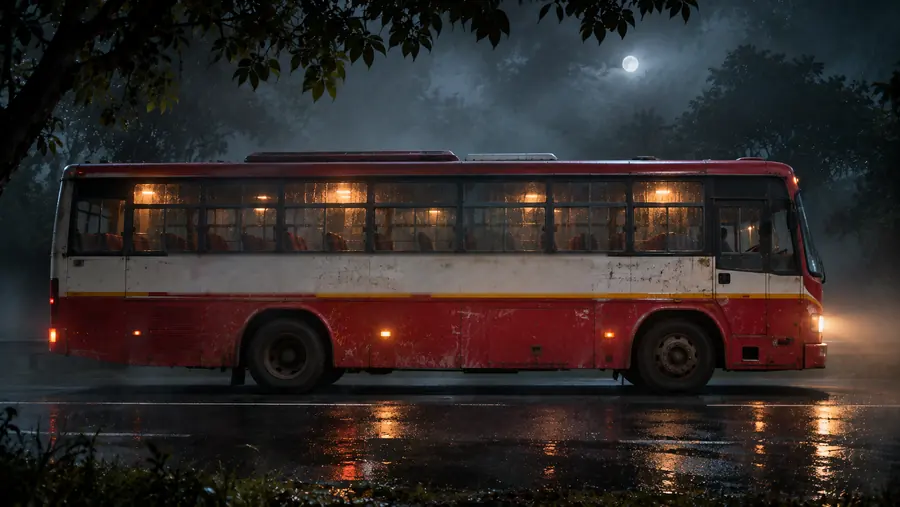
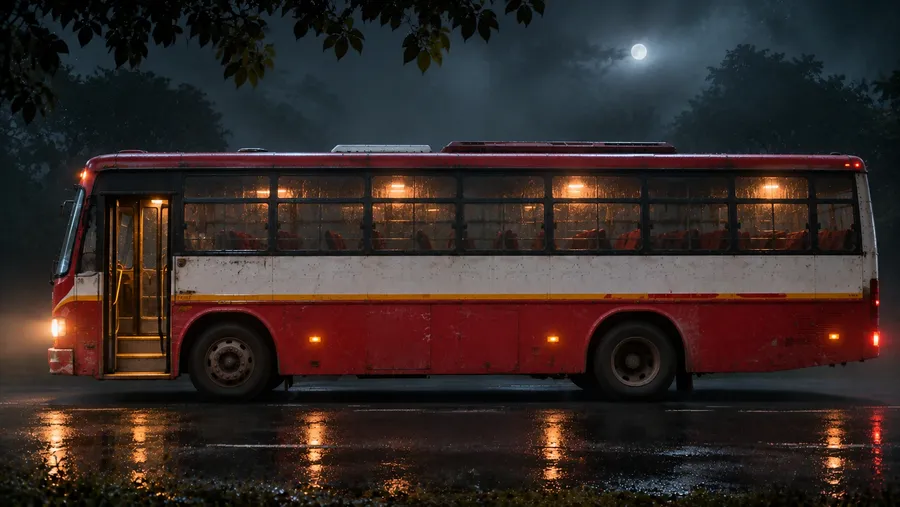
RAAT: new bus side photo for boarding; recorded-voice override
- Boarding uses the new side view of the bus (door open, lit steps, red
  seats). Corporation name and logo painted out, as with every other photo.
  New depth map and mobile size. The door is drawn closed (dark glass) and
  parts from the middle as it opens; the camera walks to the door on the
  left (Indian buses open on the roadside).
- Real recordings override generated voices: drop MP3s into
  public/audio/voices/<who>/ and list them in manifest.json (works with
  no voice provider). See public/audio/voices/README.md.

Claude-Session: https://claude.ai/code/session_012JKy7FECpFmVRG6vjye2yd

diff --git a/raat-app/src/lib/three/shaders.ts b/raat-app/src/lib/three/shaders.ts
@@ -91,16 +91,20 @@ void main() {
   float far = pow(1. - vD, 1.4);
   float f = fbm(vUv * vec2(3., 5.) + vec2(uTime * .025, uTime * .006));
   c = mix(c, uFogColor, clamp(far * uFog * (.15 + f * .55), 0., .5));
-  // the bus door folds open: warm cabin light inside its frame, spilling down onto the wet road
-  if (uDoorOpen > 0.) {
+  // the bus door folds open: warm cabin light inside its frame, spilling down onto the wet road.
+  // The photograph shows the door already open and lit, so the closed door is drawn as dark glass that
+  // parts from the middle as it opens (uDoorOpen 0 → 1).
+  if (uDoor.z > 0.) {
     vec2 iu = vec2(vUv.x, 1. - vUv.y);
     vec2 dc = vec2((uDoor.x + uDoor.z) * .5, (uDoor.y + uDoor.w) * .5), dh = vec2((uDoor.z - uDoor.x) * .5, (uDoor.w - uDoor.y) * .5);
     float inside = step(abs(iu.x - dc.x), dh.x * uDoorOpen) * step(abs(iu.y - dc.y), dh.y);
     float hum = .93 + .07 * sin(uTime * 37.) * step(.97, fract(uTime * .31));
     vec3 warm = vec3(1., .74, .42) * (.62 + .38 * smoothstep(uDoor.w, uDoor.y, iu.y)) * hum;
     // light through the doorway: the photo's own detail stays, lit warm from inside, brightest at the top step
-    vec3 lit = c * vec3(2.3, 1.7, 1.05) + warm * (.12 + .22 * smoothstep(uDoor.w, uDoor.y, iu.y));
-    c = mix(c, lit, inside);
+    float inDoor = step(abs(iu.x - dc.x), dh.x) * step(abs(iu.y - dc.y), dh.y);
+    vec3 glass = c * .14 + vec3(.035, .04, .05) + vec3(.06, .07, .08) * smoothstep(.3, .9, fract((iu.x - iu.y * .4) * 7.)) * .25;
+    c = mix(c, glass, inDoor * (1. - inside));
+    c = mix(c, c * vec3(1.08, 1.02, .95) + warm * .04, inside);
     float spill = exp(-pow((iu.x - dc.x) / (dh.x * 2.4), 2.)) * step(uDoor.w, iu.y) * (1. - smoothstep(uDoor.w, uDoor.w + .3, iu.y));
     c += vec3(1., .7, .38) * spill * uDoorOpen * .45;
   }

diff --git a/raat-app/src/lib/animation/director.ts b/raat-app/src/lib/animation/director.ts
@@ -59,7 +59,7 @@ const SHOTS: Partial<Record<SceneId, Shot[]>> = {
     { at: 15 / 30, img: 'road', focus: [.46, .54], zoom: [1.55, 2.1], rain: .6, fog: 1, glow: [.46, .53] },
     { at: 20 / 30, img: 'bus-far', focus: [.48, .52], zoom: [1, 1.75], rain: .7, glow: [.47, .57] },
     { at: 23 / 30, img: 'bus-front', focus: [.5, .58], zoom: [1, 1.38], rain: .7 },
-    { at: 26.5 / 30, img: 'bus-side', focus: [.84, .55], zoom: [1.15, 2.7], rain: .55, dof: 1.4 },
+    { at: 26.5 / 30, img: 'bus-side', focus: [.16, .56], zoom: [1.15, 2.7], rain: .55, dof: 1.4 },
   ],
   open: [{ at: 0, img: 'black', focus: [.5, .5], zoom: [1, 1] }],
   highway: [
@@ -109,7 +109,7 @@ const SHOTS: Partial<Record<SceneId, Shot[]>> = {
   leave: [
     { at: 0, img: 'cabin', focus: [.5, .45], zoom: [1.05, 1.1], flicker: 1, rain: .4 },
     { at: .19, img: 'her-behind', focus: [.53, .38], zoom: [1.2, 1.3], flicker: 1, dof: 1.1 },                        // she is looking straight at {N}
-    { at: .3, img: 'bus-side', focus: [.84, .55], zoom: [1.6, 1.5], rain: .5, light: .9 },                            // the door, from the road
+    { at: .3, img: 'bus-side', focus: [.2, .56], zoom: [1.6, 1.5], rain: .5, light: .9 },                            // the door, from the road
     { at: .56, img: 'bus-front', focus: [.5, .56], zoom: [1.18, 1.14], rain: .6, glow: [.5, .62] },
     { at: .64, img: 'bus-front', focus: [.5, .55], zoom: [1.14, 1.08], rain: .6, glow: [.5, .62], glowFade: true, vanish: true, lightTo: .55, glide: true },
     { at: .9, img: 'road', focus: [.46, .55], zoom: [1.04, 1.06], rain: .5, fog: 1, light: .7 },

diff --git a/raat-app/src/components/film/HighwayFilm.tsx b/raat-app/src/components/film/HighwayFilm.tsx
@@ -265,7 +265,7 @@ function DoorShot({ small }: { small: boolean }) {
       uMap: { value: null }, uDepth: { value: null }, uHasMap: { value: 0 }, uHasDepth: { value: 0 }, uDepthScale: { value: 1.5 },
       uMix: { value: 1 }, uLight: { value: 1 }, uWarm: { value: 0 }, uFog: { value: .6 }, uTime: { value: 0 }, uDissolve: { value: 0 }, uFade: { value: 1 },
       uDof: { value: 1.2 }, uFocus: { value: new THREE.Vector2(.84, .45) }, uFogColor: { value: new THREE.Color('#14161a') },
-      uDoor: { value: new THREE.Vector4(.797, .35, .888, .70) }, uDoorOpen: { value: 0 }, uFill: { value: 0 },
+      uDoor: { value: new THREE.Vector4(.117, .385, .188, .739) }, uDoorOpen: { value: 0 }, uFill: { value: 0 },
     },
   }), []);
   useDispose(mat);
@@ -318,7 +318,7 @@ function FilmCamera({ reduced }: { reduced: boolean }) {
       const aspect = size.width / size.height, cover = aspect > 16 / 9 ? 16 / aspect : 9;
       const hv = cover / (1.1 + k) * .86, wv = hv * aspect;
       const step = Math.max(0, Math.sin((t - 42.2) * Math.PI * 1.6)) * .05 * range(t, 42.2, 44.5);
-      const fx = (.842 - .5) * 16, fy = (.5 - .53) * 9 + step;
+      const fx = (.152 - .5) * 16, fy = (.5 - .56) * 9 + step; // the open door (left: Indian buses open on the roadside)
       const cx = THREE.MathUtils.clamp(fx, -(16 - wv) / 2, (16 - wv) / 2), cy = THREE.MathUtils.clamp(fy, -(9 - hv) / 2, (9 - hv) / 2);
       const fov = 40, dist = hv / (2 * Math.tan(THREE.MathUtils.degToRad(fov / 2)));
       cam.position.set(DOOR_ORIGIN.x + cx + px * 2, DOOR_ORIGIN.y + cy + py * 2, dist);

diff --git a/raat-app/src/lib/audio/voice.ts b/raat-app/src/lib/audio/voice.ts
@@ -32,12 +32,21 @@ function probe(): Promise<boolean> {
 }
 export const voicesAvailable = () => available;
 
-async function load(k: Key): Promise<AudioBuffer | null> {
-  if (!audio.ok || !(await probe())) return null;
-  return loadClip(k);
+// real recordings (public/audio/voices/manifest.json) take precedence over generated voices
+let recorded: Promise<Set<string>> | null = null;
+function recordedLines(): Promise<Set<string>> {
+  if (!recorded) recorded = fetch('/audio/voices/manifest.json').then((r) => (r.ok ? r.json() : { lines: [] })).then((j: { lines?: string[] }) => new Set(j.lines ?? [])).catch(() => new Set<string>());
+  return recorded;
 }
-function loadClip(k: Key): Promise<AudioBuffer | null> {
-  const u = url(k);
+
+async function load(k: Key): Promise<AudioBuffer | null> {
+  if (!audio.ok) return null;
+  const lang = store.get().lang, who = VOICED[k]?.who;
+  if (who && (await recordedLines()).has(`${k}-${lang}`)) return loadUrl(`/audio/voices/${who}/${k}-${lang}.mp3`);
+  if (!(await probe())) return null;
+  return loadUrl(url(k));
+}
+function loadUrl(u: string): Promise<AudioBuffer | null> {
   let p = cache.get(u);
   if (!p) {
     p = (async () => {

diff --git a/raat-app/public/audio/voices/README.md b/raat-app/public/audio/voices/README.md
@@ -1,0 +1,14 @@
+# Recorded voice lines
+
+A real recording always beats a generated voice, and it plays even without any voice provider.
+
+1. Record the line as MP3 (mono is fine, 44.1 kHz, no music, a little room tone is OK).
+2. Save it as `<who>/<line key>-<language>.mp3`, for example:
+   - `kokila/whisper_end-en.mp3` — "We'll meet again."
+   - `kokila/whisper_end-hi.mp3` — "फिर मिलेंगे…"
+   - `kokila/whisper_end-gu.mp3` — "મળશું… ફરી."
+3. Add `"<line key>-<language>"` to `lines` in `manifest.json`, e.g. `["whisper_end-en", "whisper_end-hi", "whisper_end-gu"]`.
+4. Redeploy.
+
+Line keys and speakers are listed in `src/lib/audio/lines.ts`. Lines that contain the visitor's name
+(`i_name`, `call_line1`) can't be pre-recorded for every name; those use the voice provider.
